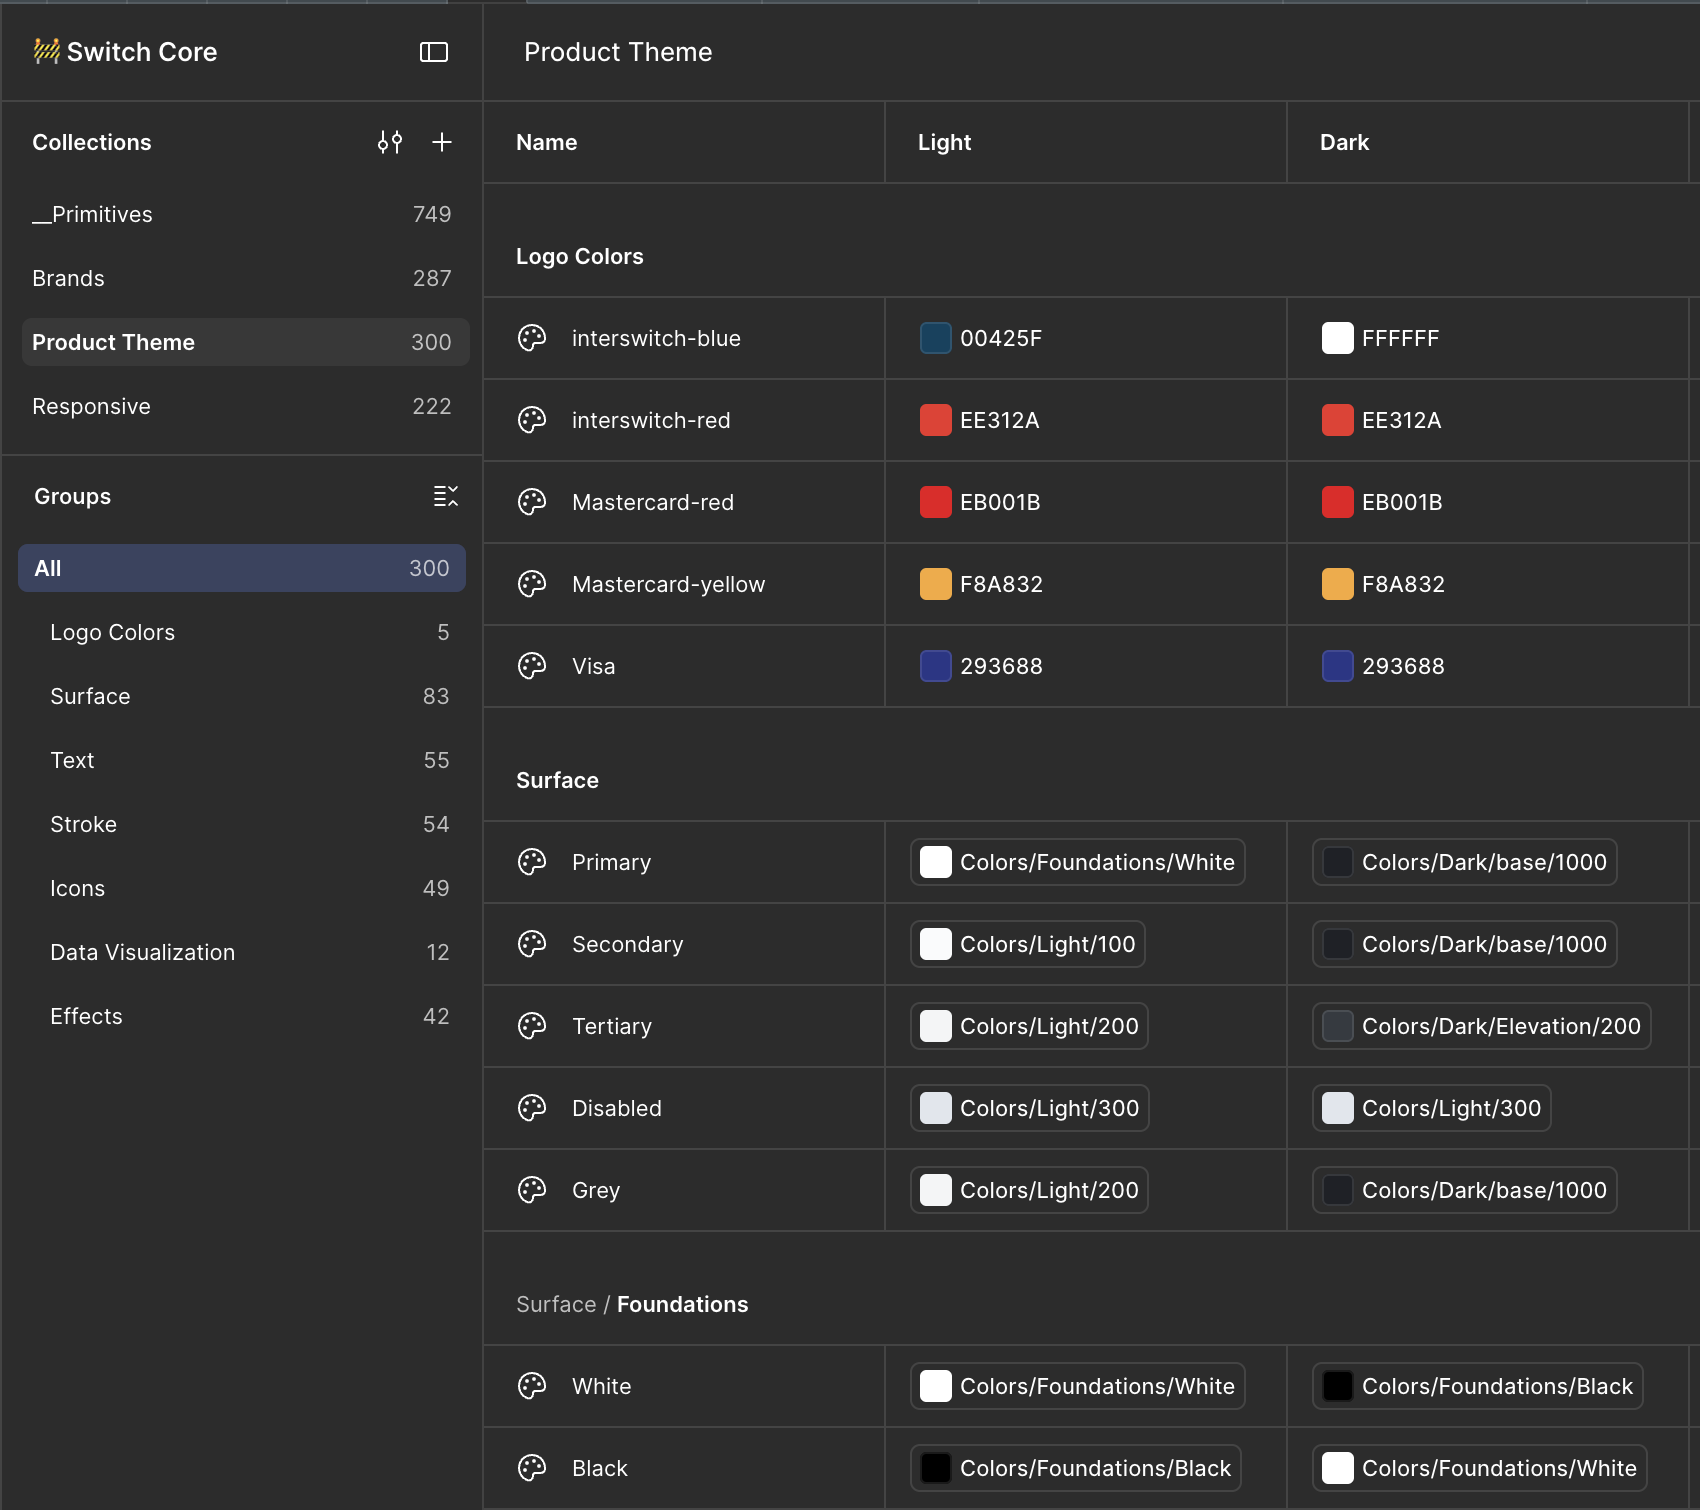
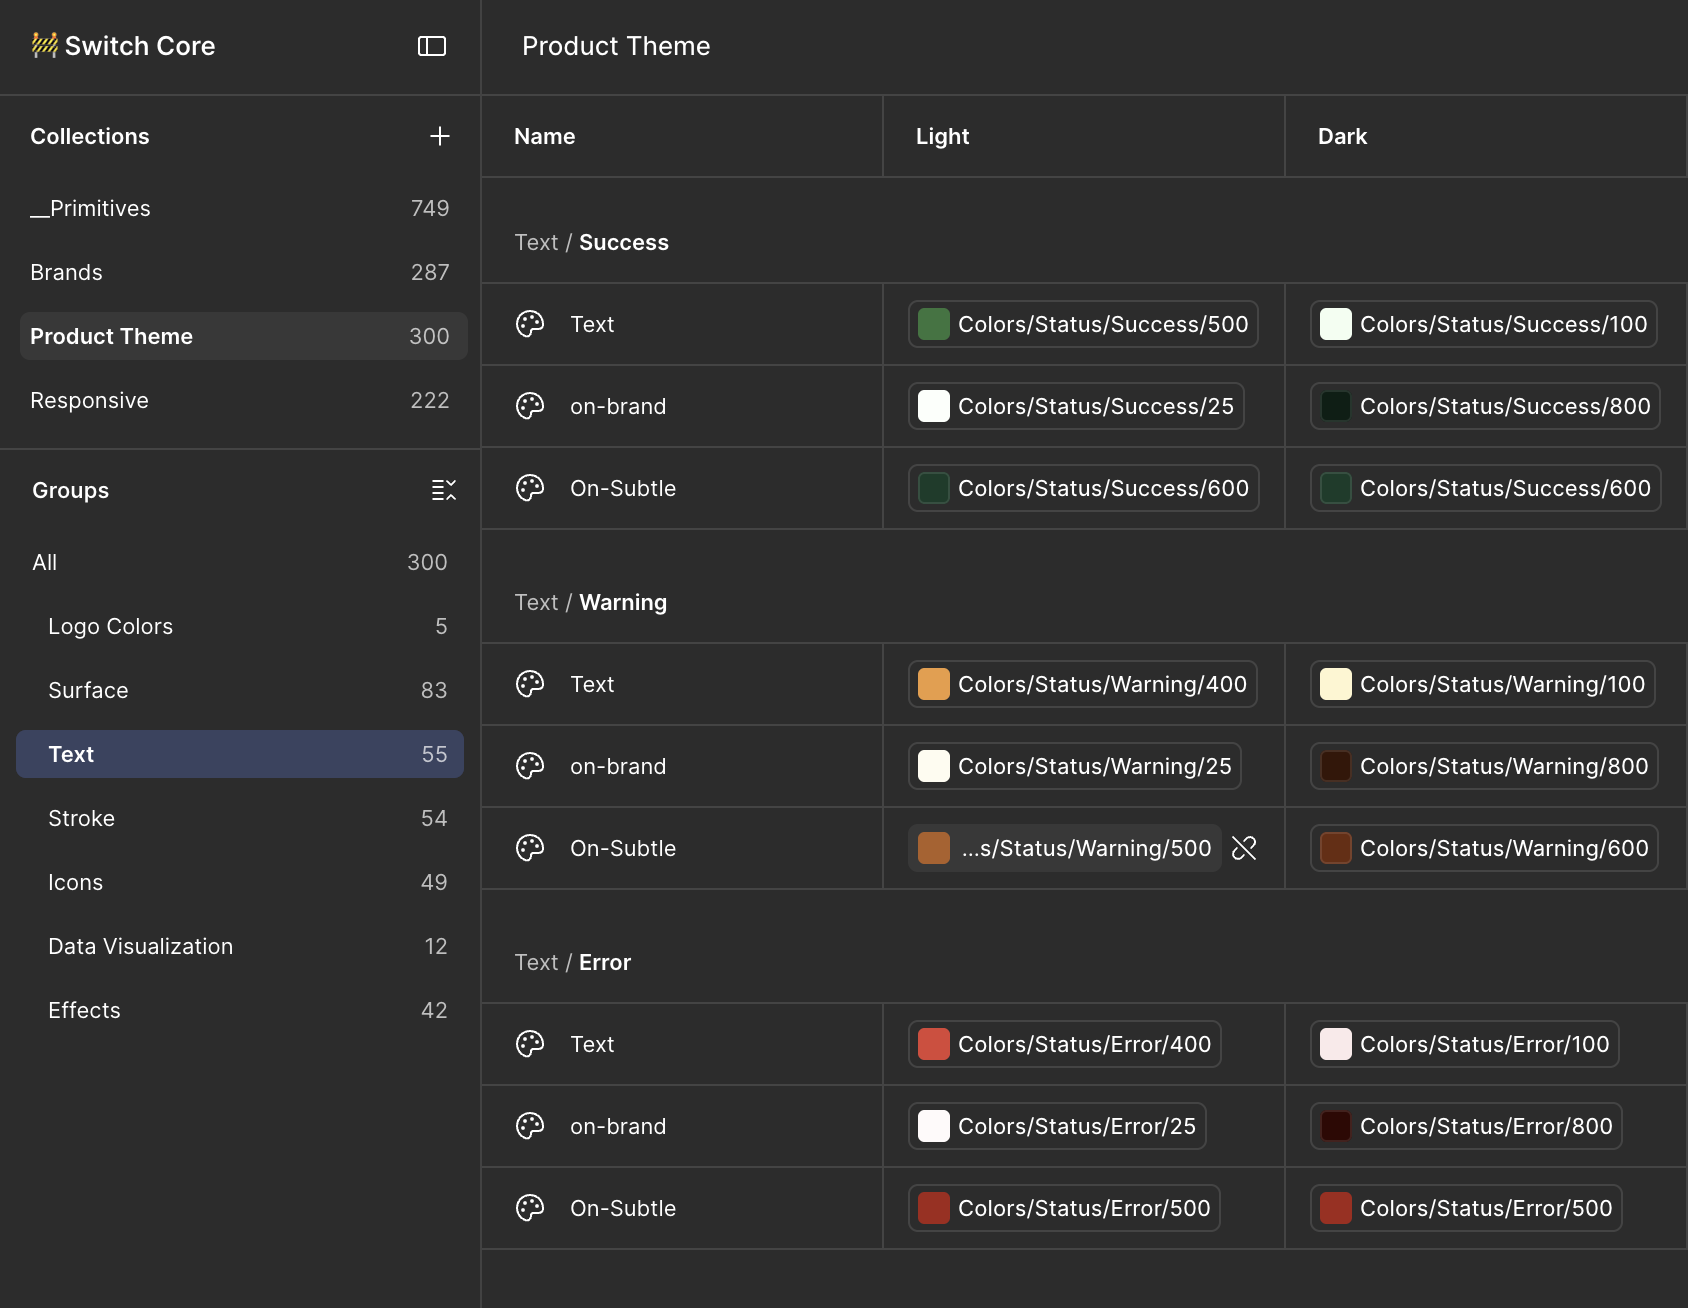
video changes

diff --git a/switchcore-case-study.html b/switchcore-case-study.html
@@ -422,16 +422,16 @@
     <div class="sec-label">Overview</div>
     <h2>Summary</h2>
     <p class="prose">
-      Interswitch Group's three flagship payment products — Verve, Quickteller, and Interswitch — shared no design infrastructure. All three had evolved over years of independent product development, each carrying their own ad-hoc component decisions, colour overrides, and inconsistent spacing systems.
+      Interswitch Group's three flagship payment products Verve, Quickteller, and Interswitch shared no design infrastructure. All three had evolved over years of independent product development, each carrying their own ad-hoc component decisions, colour overrides, and inconsistent spacing systems.
     </p>
     <p class="prose">
-      I designed and built <strong>Switch Core 2.0</strong>: a multi-brand design system in Figma that gives all three products a shared foundational layer — while preserving the distinct visual identities that each brand requires. Across 14 months, the system grew to cover token architecture, a full component library, and per-component documentation built to a professional standard.
+      I designed and built <strong>Switch Core 2.0</strong>: a multi-brand design system in Figma that gives all three products a shared foundational layer while preserving the distinct visual identities that each brand requires. Across 14 months, the system grew to cover token architecture, a full component library, and per-component documentation built to a professional standard.
     </p>
 
     <div class="metrics">
       <div class="metric">
         <div class="num">1,306</div>
-        <div class="lbl"><strong>Design variables</strong> across five token collections — from primitives to component-level aliases</div>
+        <div class="lbl"><strong>Design variables</strong> across five token collections from primitives to component-level aliases</div>
       </div>
       <div class="metric">
         <div class="num">204</div>
@@ -439,16 +439,16 @@
       </div>
       <div class="metric">
         <div class="num">4</div>
-        <div class="lbl"><strong>Token tiers</strong> — Primitive → Brand Mapping → Brand Based Variables, Responsive Variables enabling brand theming at the alias layer</div>
+        <div class="lbl"><strong>Token tiers</strong> Primitive → Brand Mapping → Brand Based Variables, Responsive Variables enabling brand theming at the alias layer</div>
       </div>
       <div class="metric">
         <div class="num">3</div>
-        <div class="lbl"><strong>Brands supported</strong> — Verve, Quickteller, and Interswitch, each with independent theme collections on a shared foundation</div>
+        <div class="lbl"><strong>Brands supported</strong>  Verve, Quickteller, and Interswitch, each with independent theme collections on a shared foundation</div>
       </div>
     </div>
 
-    <!-- IMAGE: System overview / Figma file hero -->
-    <img src="Img8-idex.png" alt="Figma design system file overview" style="width: 100%; border-radius: 10px; margin: 36px 0; display: block;">
+    <!-- VIDEO: System overview / Figma file hero -->
+    <video src="Design-system.mov" controls muted playsinline loop style="width: 100%; border-radius: 10px; margin: 36px 0; display: block; background: var(--card);"></video>
   </div>
 
   <!-- CONTEXT -->
@@ -459,12 +459,12 @@
       Interswitch Group operates multiple payment products under its umbrella. Verve, Quickteller, and Interswitch are the three largest, and despite being sister products under the same group, they were designed in complete isolation. Different files, different components, different spacing logic. Every design decision made for one had to be independently recreated for the other two.
     </p>
     <p class="prose">
-      This created compounding costs: <strong>duplicated design effort</strong> across every feature, <strong>inconsistent product quality</strong> between the three brands, and <strong>no path to scaling</strong> without tripling the work. As design lead across all three products, I was in a position to see the full picture — and to fix it at the root over a 14-month build.
+      This created compounding costs: <strong>duplicated design effort</strong> across every feature, <strong>inconsistent product quality</strong> between the three brands, and <strong>no path to scaling</strong> without tripling the work. As design lead across all three products, I was in a position to see the full picture and to fix it at the root over a 14-month build.
     </p>
 
     <div class="callout">
       <p>"We were designing the same button in two places, making different decisions each time, and wondering why the products felt like they didn't belong to the same company."</p>
-      <cite>— Internal design team retrospective, 2024.</cite>
+      <cite> Internal design team retrospective, 2024.</cite>
     </div>
 
     <p class="prose">
@@ -567,24 +567,6 @@
     <!-- IMAGE: Token architecture diagram / Figma variables panel -->
     <img src="img5-idex.png" alt="Token architecture / Figma variables panel" style="width: 100%; border-radius: 10px; margin: 36px 0; display: block;">
 
-    <!-- IMAGE: Brand token comparison — 3 brands -->
-    <div class="img-trio" style="margin:32px 0">
-      <div class="img-slot" style="aspect-ratio:4/3;margin:0">
-        <svg width="24" height="24" viewBox="0 0 24 24" fill="none" stroke="currentColor" stroke-width="1.5"><circle cx="12" cy="12" r="10"/></svg>
-        <span class="slot-label">Image — Verve tokens</span>
-        <span class="slot-caption">Colour palette + alias mapping</span>
-      </div>
-      <div class="img-slot" style="aspect-ratio:4/3;margin:0">
-        <svg width="24" height="24" viewBox="0 0 24 24" fill="none" stroke="currentColor" stroke-width="1.5"><circle cx="12" cy="12" r="10"/></svg>
-        <span class="slot-label">Image — Quickteller tokens</span>
-        <span class="slot-caption">Colour palette + alias mapping</span>
-      </div>
-      <div class="img-slot" style="aspect-ratio:4/3;margin:0">
-        <svg width="24" height="24" viewBox="0 0 24 24" fill="none" stroke="currentColor" stroke-width="1.5"><circle cx="12" cy="12" r="10"/></svg>
-        <span class="slot-label">Image — Interswitch tokens</span>
-        <span class="slot-caption">Colour palette + alias mapping</span>
-      </div>
-    </div>
   </div>
 
   <!-- BRANDS -->
@@ -592,14 +574,14 @@
     <div class="sec-label">Brand Expressions</div>
     <h2>One foundation. Three identities.</h2>
     <p class="prose">
-      The semantic token layer is where the three brands diverge. All three consume the same primitive palette — but their semantic aliases resolve to different values, producing distinct visual identities while sharing the same component architecture underneath.
+      The semantic token layer is where the three brands diverge. All three consume the same primitive palette but their semantic aliases resolve to different values, producing distinct visual identities while sharing the same component architecture underneath.
     </p>
 
     <div class="brand-split" style="grid-template-columns:1fr 1fr 1fr">
       <div class="brand-card verve">
         <div class="brand-label">Verve</div>
         <h3>Confident. Grounded. Distinctly African.</h3>
-        <p>Deep teal primary, high-contrast surfaces, typographic trust signals. The product context is financial — every visual decision earns its place by making the interface feel reliable.</p>
+        <p>Deep teal primary, high-contrast surfaces, typographic trust signals. The product context is financial every visual decision earns its place by making the interface feel reliable.</p>
         <div class="brand-swatch-row">
           <div class="swatch" style="background:#3d6b5c"></div>
           <div class="swatch" style="background:#5a9e87"></div>
@@ -611,7 +593,7 @@
       <div class="brand-card qt">
         <div class="brand-label">Quickteller</div>
         <h3>Warm. Approachable. Everyday payments.</h3>
-        <p>Warm amber primary, lighter surface weights, slightly more expressive rhythm. Consumer-facing — the visual language needs to feel accessible and familiar to everyday users.</p>
+        <p>Warm amber primary, lighter surface weights, slightly more expressive rhythm. Consumer-facing the visual language needs to feel accessible and familiar to everyday users.</p>
         <div class="brand-swatch-row">
           <div class="swatch" style="background:#d4a96a"></div>
           <div class="swatch" style="background:#b8892a"></div>
@@ -623,7 +605,7 @@
       <div class="brand-card" style="border-color:rgba(180,180,220,.25);background:rgba(180,180,220,.05)">
         <div class="brand-label" style="color:#a8a8e8;font-family:var(--mono);font-size:10px;letter-spacing:.08em;text-transform:uppercase;margin-bottom:12px">Interswitch</div>
         <h3>Authoritative. Institutional. Enterprise-grade.</h3>
-        <p>Deep navy primary, structured surfaces, high information density. B2B and enterprise-facing — the system needs to communicate scale, security, and professional competence above all else.</p>
+        <p>Deep navy primary, structured surfaces, high information density. B2B and enterprise-facing the system needs to communicate scale, security, and professional competence above all else.</p>
         <div class="brand-swatch-row">
           <div class="swatch" style="background:#1a2260"></div>
           <div class="swatch" style="background:#3040a0"></div>
@@ -643,7 +625,7 @@
     <div class="sec-label">Component Library</div>
     <h2>Six component sets at launch</h2>
     <p class="prose">
-      Components were built in priority order — highest frequency of use across both products first. Each component was built to support all required states, documented with a dedicated documentation page, and validated against both brand themes before being marked production-ready.
+      Components were built in priority order highest frequency of use across both products first. Each component was built to support all required states, documented with a dedicated documentation page, and validated against both brand themes before being marked production-ready.
     </p>
 
     <div class="component-grid">
@@ -666,7 +648,7 @@
       </div>
       <div class="comp-card">
         <div class="comp-name">Badge</div>
-        <div class="comp-desc">Status, label, and count variants. Semantic colour coding aligned to the token system — success, warning, error, neutral.</div>
+        <div class="comp-desc">Status, label, and count variants. Semantic colour coding aligned to the token system success, warning, error, neutral.</div>
         <div class="comp-tags">
           <span class="comp-tag">4 colours</span>
           <span class="comp-tag">3 sizes</span>
@@ -699,28 +681,9 @@
       </div>
     </div>
 
-    <!-- IMAGE: Component set overview -->
-    <div class="img-slot img-slot--wide">
-      <svg width="32" height="32" viewBox="0 0 24 24" fill="none" stroke="currentColor" stroke-width="1.5"><rect x="3" y="3" width="18" height="18" rx="2"/><path d="M3 9h18M9 21V9"/></svg>
-      <span class="slot-label">Image — Component library overview</span>
-      <span class="slot-caption">All 6 components, all variants · 1600 × 900px</span>
-    </div>
+    <!-- VIDEO: Component set overview -->
+    <img src="Img8-idex.png" alt="Component library overview" style="width: 100%; border-radius: 10px; margin: 36px 0; display: block;">
 
-    <!-- IMAGE: Component close-ups -->
-    <div class="img-trio">
-      <div class="img-slot">
-        <svg width="24" height="24" viewBox="0 0 24 24" fill="none" stroke="currentColor" stroke-width="1.5"><rect x="3" y="3" width="18" height="18" rx="2"/></svg>
-        <span class="slot-label">Button variants</span>
-      </div>
-      <div class="img-slot">
-        <svg width="24" height="24" viewBox="0 0 24 24" fill="none" stroke="currentColor" stroke-width="1.5"><rect x="3" y="3" width="18" height="18" rx="2"/></svg>
-        <span class="slot-label">Card + Badge</span>
-      </div>
-      <div class="img-slot">
-        <svg width="24" height="24" viewBox="0 0 24 24" fill="none" stroke="currentColor" stroke-width="1.5"><rect x="3" y="3" width="18" height="18" rx="2"/></svg>
-        <span class="slot-label">Toast + Avatar</span>
-      </div>
-    </div>
   </div>
 
   <!-- DOCUMENTATION -->
@@ -728,7 +691,7 @@
     <div class="sec-label">Documentation</div>
     <h2>Every component documented. Every decision explained.</h2>
     <p class="prose">
-      One of the failure modes of previous component libraries at Interswitch was the absence of documentation. Components existed but their intent, variants, states, and usage rules were all implicit knowledge — held by whoever built them.
+      One of the failure modes of previous component libraries at Interswitch was the absence of documentation. Components existed but their intent, variants, states, and usage rules were all implicit knowledge held by whoever built them.
     </p>
     <p class="prose">
       Switch Core 2.0 ships with a <strong>full documentation page per component</strong>, modelled on professional standards. Each page covers: the component's purpose and when to use it, all variants and their use cases, interaction states, accessibility notes, and usage examples showing correct and incorrect application.
@@ -764,7 +727,7 @@
         <div class="ps-num">2</div>
         <div class="ps-content">
           <div class="ps-title">Primitive Token Layer</div>
-          <div class="ps-desc">Defined the raw value set — every colour stop, spacing unit, radius, and shadow depth that would exist in the system. Validated against all three brands' identity requirements before any aliases were created.</div>
+          <div class="ps-desc">Defined the raw value set every colour stop, spacing unit, radius, and shadow depth that would exist in the system. Validated against all three brands' identity requirements before any aliases were created.</div>
         </div>
         <div class="ps-weeks">Months 2–3</div>
       </div>
@@ -772,7 +735,7 @@
         <div class="ps-num">3</div>
         <div class="ps-content">
           <div class="ps-title">Semantic + Brand Tokens</div>
-          <div class="ps-desc">Built the intent layer — separate Verve, Quickteller, and Interswitch semantic collections aliasing into the shared primitives. Validated that all three brand themes were visually distinct and accessible before proceeding.</div>
+          <div class="ps-desc">Built the intent layer separate Verve, Quickteller, and Interswitch semantic collections aliasing into the shared primitives. Validated that all three brand themes were visually distinct and accessible before proceeding.</div>
         </div>
         <div class="ps-weeks">Months 3–6</div>
       </div>
@@ -803,11 +766,7 @@
     </div>
 
     <!-- IMAGE: Build process / Figma file structure -->
-    <div class="img-slot img-slot--short">
-      <svg width="32" height="32" viewBox="0 0 24 24" fill="none" stroke="currentColor" stroke-width="1.5"><rect x="3" y="3" width="18" height="18" rx="2"/><path d="M3 9h18M9 21V9"/></svg>
-      <span class="slot-label">Image — Figma file structure / page organisation</span>
-      <span class="slot-caption">System file pages overview · 1600 × 700px</span>
-    </div>
+    <img src="Img10-idex.png" alt="Figma file structure / page organisation" style="width: 100%; border-radius: 10px; margin: 36px 0; display: block;">
   </div>
 
   <!-- IMPACT -->
@@ -815,24 +774,20 @@
     <div class="sec-label">Impact</div>
     <h2>What the system made possible</h2>
     <p class="prose">
-      Switch Core 2.0 shipped to the Verve, Quickteller, and Interswitch design teams at the end of the 14-month build. The immediate impact was structural — it changed how all three teams work, not just how the products look.
+      Switch Core 2.0 shipped to the Verve, Quickteller, and Interswitch design teams at the end of the 14-month build. The immediate impact was structural it changed how all three teams work, not just how the products look.
     </p>
     <p class="prose">
       <strong>Brand switching became instantaneous.</strong> A component that previously required manual recolouring to move between brand contexts now switches in a single Figma variable mode swap. Designers stopped context-switching between three files to check what "the same thing" looked like across brands.
     </p>
     <p class="prose">
-      <strong>Component coverage went from incomplete to comprehensive.</strong> Both product teams previously operated with partial, undocumented component libraries. Switch Core 2.0 gave them a complete, documented foundation — with clear paths to extend it without breaking the shared layer.
+      <strong>Component coverage went from incomplete to comprehensive.</strong> Both product teams previously operated with partial, undocumented component libraries. Switch Core 2.0 gave them a complete, documented foundation with clear paths to extend it without breaking the shared layer.
     </p>
     <p class="prose">
-      <strong>Onboarding a new designer became measurably faster.</strong> With documented components and a structured token system, new team members could read the system and understand the design language — rather than reverse-engineering it from shipped screens.
+      <strong>Onboarding a new designer became measurably faster.</strong> With documented components and a structured token system, new team members could read the system and understand the design language rather than reverse-engineering it from shipped screens.
     </p>
 
-    <!-- IMAGE: Final system — full-bleed composition -->
-    <div class="img-slot img-slot--wide">
-      <svg width="32" height="32" viewBox="0 0 24 24" fill="none" stroke="currentColor" stroke-width="1.5"><rect x="3" y="3" width="18" height="18" rx="2"/><path d="M3 9h18M9 21V9"/></svg>
-      <span class="slot-label">Image — Final system hero shot</span>
-      <span class="slot-caption">Tokens + components + both brand themes in one composition · 1600 × 900px</span>
-    </div>
+    <!-- VIDEO: Final system — full-bleed composition -->
+    <video src="buttons.mov" controls muted playsinline loop style="width: 100%; border-radius: 10px; margin: 36px 0; display: block; background: var(--card);"></video>
   </div>
 
 </div><!-- /body -->
@@ -847,7 +802,7 @@
       <div class="proj-card-top">
         <div class="proj-card-meta">01 / Case study</div>
         <div class="proj-card-title">Verve Ecosystem Revamp</div>
-        <div class="proj-card-sub">Verve — 0-1 design</div>
+        <div class="proj-card-sub">Verve 0-1 design</div>
       </div>
       <div class="proj-card-device">
         <div style="width:100%;aspect-ratio:16/10;background:#0f2a2a;border-radius:8px 8px 0 0;padding:7px">
@@ -874,7 +829,7 @@
       <div class="proj-card-top">
         <div class="proj-card-meta">03 / Case study</div>
         <div class="proj-card-title">Manufacturer Operating System</div>
-        <div class="proj-card-sub">Omniretail — Manufacturers &amp; Distributors</div>
+        <div class="proj-card-sub">Omniretail Manufacturers &amp; Distributors</div>
       </div>
       <div class="proj-card-device">
         <div style="display:flex;gap:8px;align-items:flex-end;justify-content:center;width:100%">